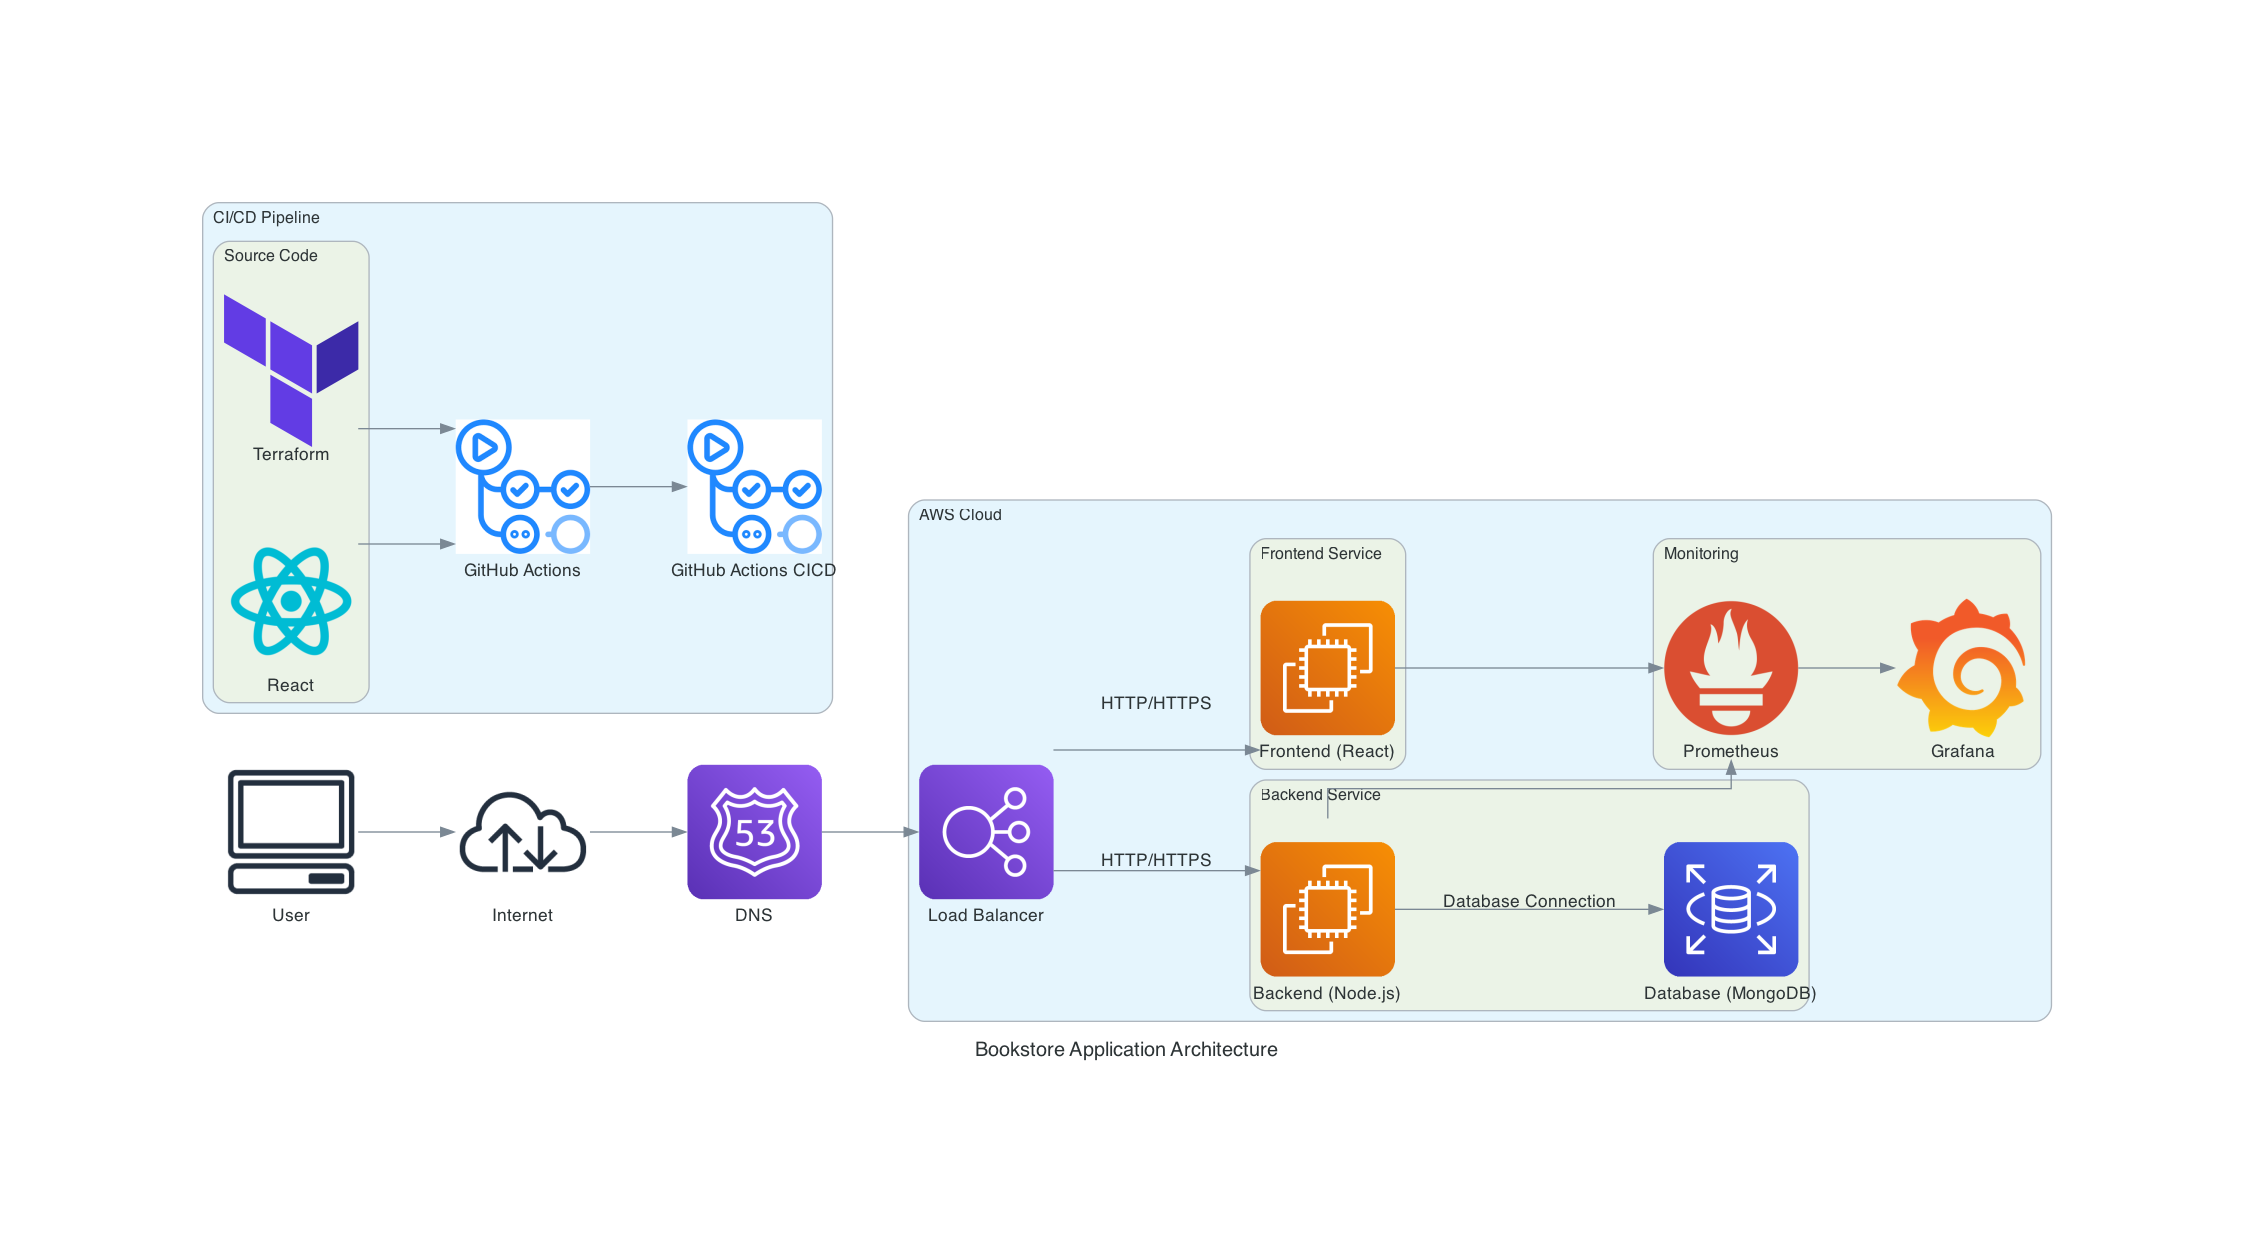
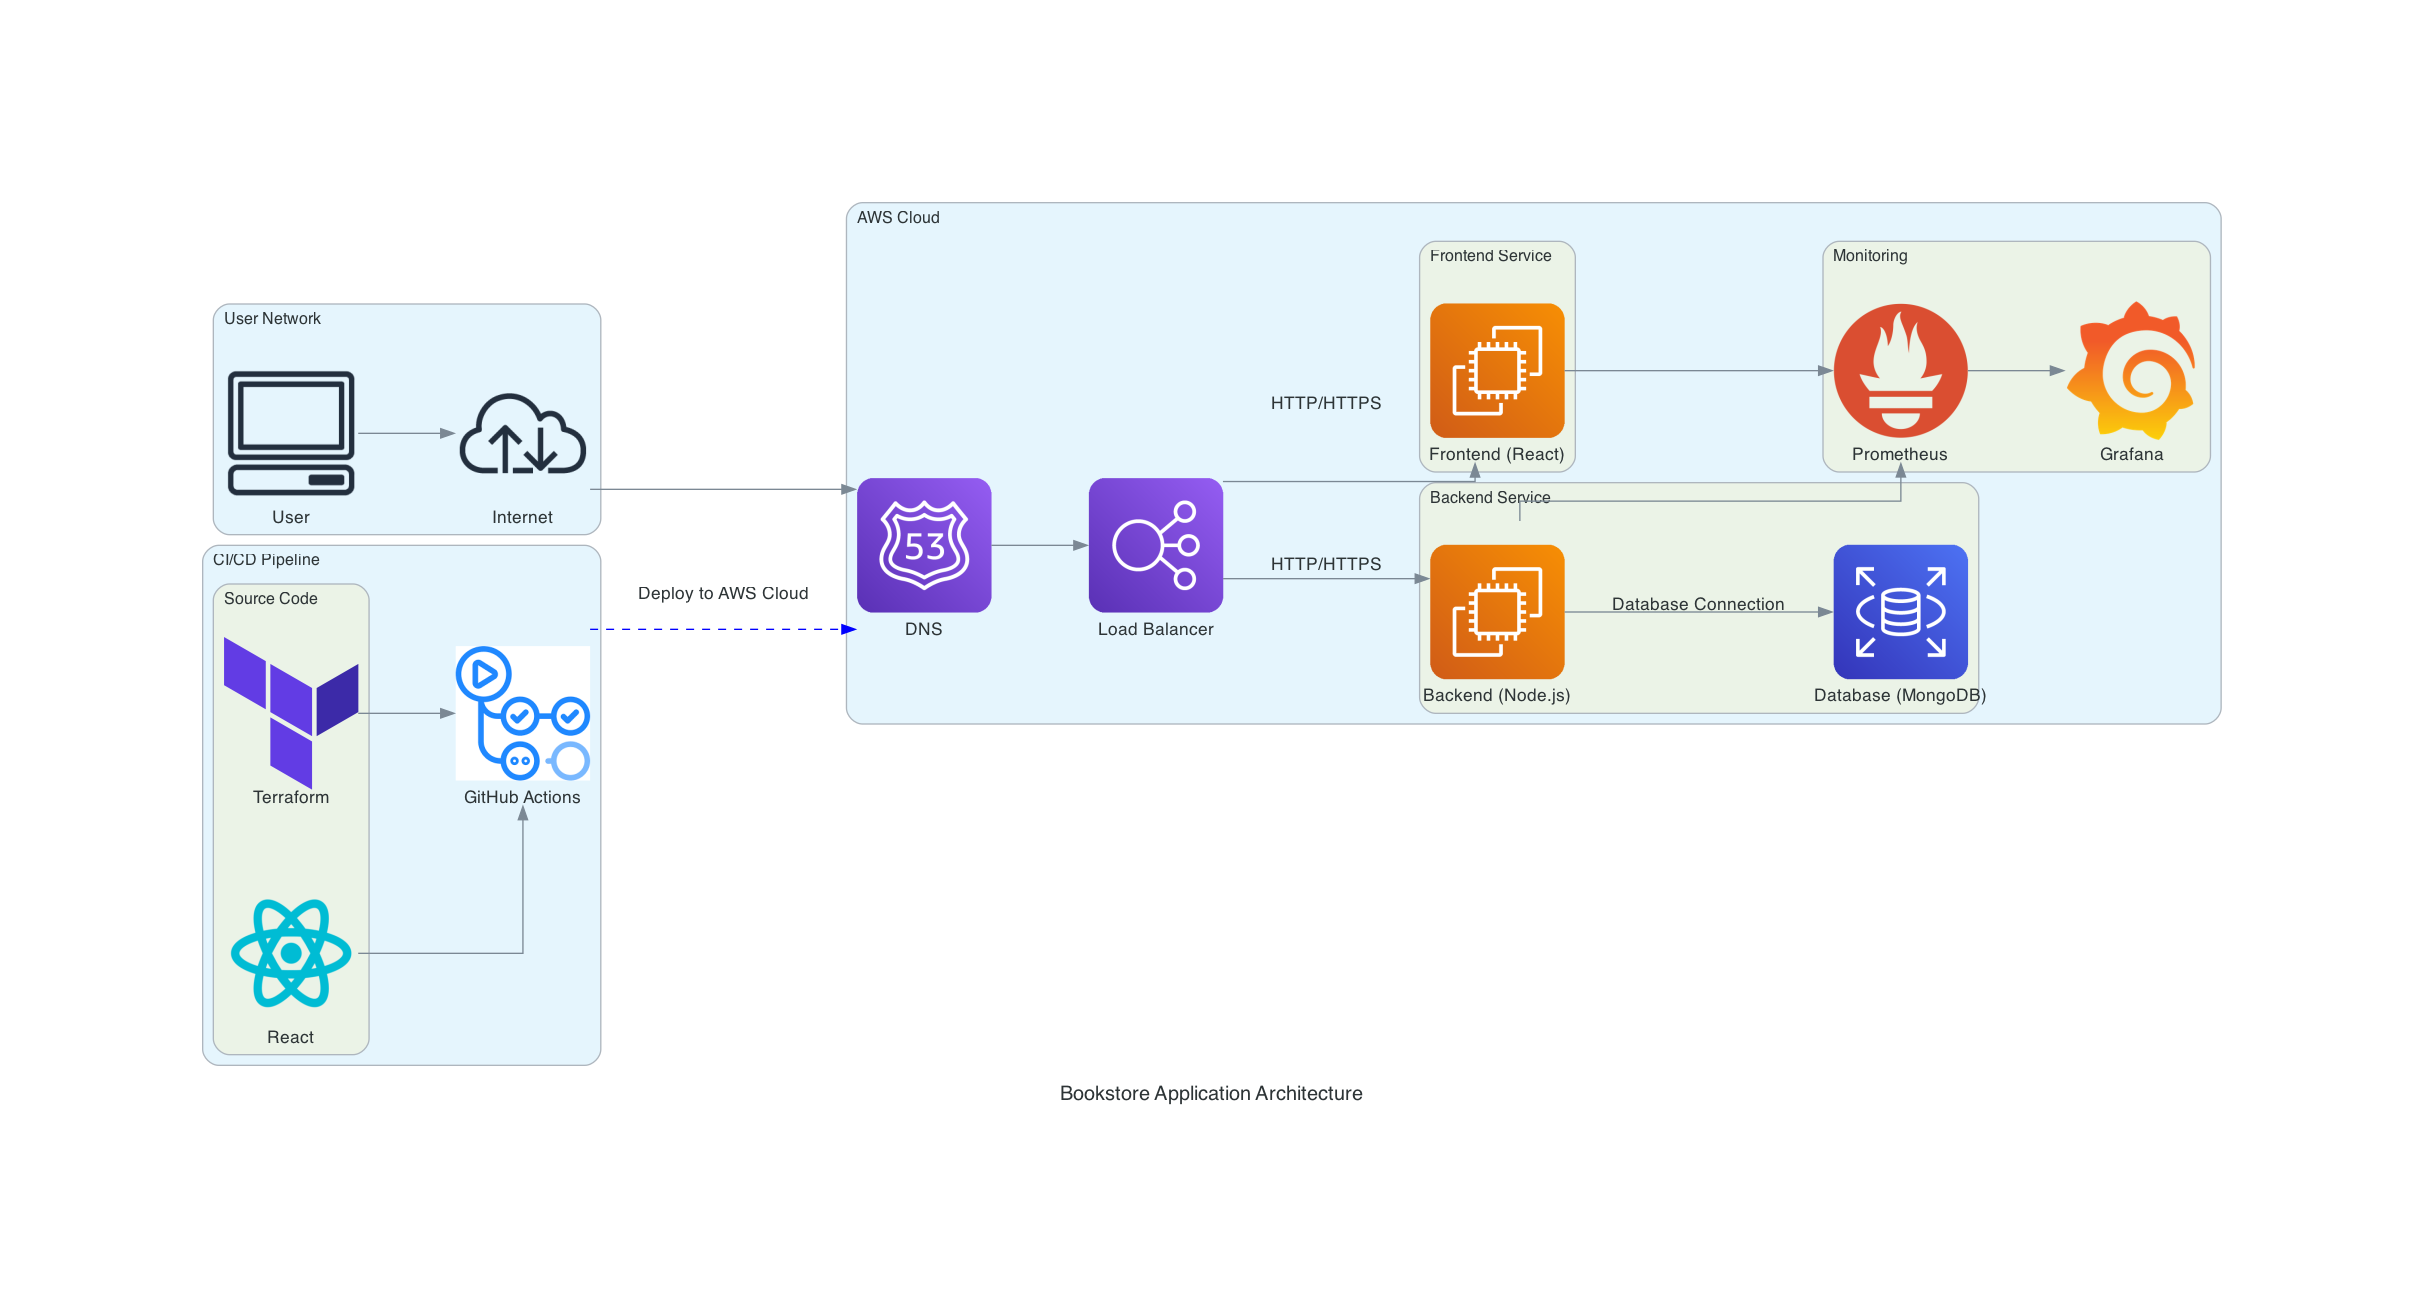
updated arch diagram

diff --git a/bookstore-app/arch-diagram/architecture.py b/bookstore-app/arch-diagram/architecture.py
@@ -2,7 +2,7 @@ from diagrams import Diagram, Cluster, Edge
 from diagrams.aws.compute import EC2
 from diagrams.aws.database import RDS
 from diagrams.aws.network import ELB, Route53
-from diagrams.aws.devtools import Codepipeline, Codebuild
+# from diagrams.aws.devtools import Codepipeline, Codebuild
 from diagrams.aws.general import Client
 from diagrams.onprem.network import Internet
 # from diagrams.onprem.container import Docker
@@ -11,20 +11,22 @@ from diagrams.onprem.monitoring import Prometheus, Grafana
 from diagrams.programming.framework import React
 from diagrams.custom import Custom
 
-with Diagram("Bookstore Application Architecture", show=False, graph_attr={ 'nodesep': '0.5', 'ranksep': '1.0'}):
-    client = Client("User")
-    internet = Internet("Internet")
-    dns = Route53("DNS")
+graph_attr={'ranksep': '1.0', 'rankdir': 'TB'}
+
+with Diagram("Bookstore Application Architecture", show=False, graph_attr={'ranksep': '1.0'}):
+    with Cluster("User Network"):
+        client = Client("User")
+        internet = Internet("Internet")
 
     with Cluster("CI/CD Pipeline"):
         with Cluster("Source Code"):
             react = React("React")
             terraform = Custom("Terraform", "./tf.png")
         github_actions = Custom("GitHub Actions", "./ghactions.png")
-        pipeline = Custom("GitHub Actions CICD", "./ghactions.png")
 
-    with Cluster("AWS Cloud", graph_attr={ 'nodesep': '0.5', 'ranksep': '1.0'}):
+    with Cluster("AWS Cloud", graph_attr={'ranksep': '1.0'}):
         lb = ELB("Load Balancer")
+        dns = Route53("DNS")
 
         with Cluster("Backend Service"):
             backend = EC2("Backend (Node.js)")
@@ -40,7 +42,6 @@ with Diagram("Bookstore Application Architecture", show=False, graph_attr={ 'nod
     client >> internet >> dns >> lb
     react >> github_actions  
     terraform >> github_actions 
-    github_actions >> pipeline 
     # build >> lb
     lb >> Edge(label="HTTP/HTTPS") >> frontend
     lb >> Edge(label="HTTP/HTTPS") >> backend
@@ -48,3 +49,10 @@ with Diagram("Bookstore Application Architecture", show=False, graph_attr={ 'nod
     backend >> prometheus
     frontend >> prometheus
     prometheus >> grafana
+
+    # Connecting CI/CD Pipeline to AWS Cloud
+    github_actions >> Edge(color="blue", style="dashed", label="Deploy to AWS Cloud") >> dns
+    # github_actions >> Edge(color="blue", style="dashed", label="Deploy to Backend") >> backend
+    # github_actions >> Edge(color="blue", style="dashed", label="Deploy to frontend") >> frontend
+    
+    # pipeline >> Edge(color="blue", style="dashed", label="Deploy to Frontend") >> frontend
